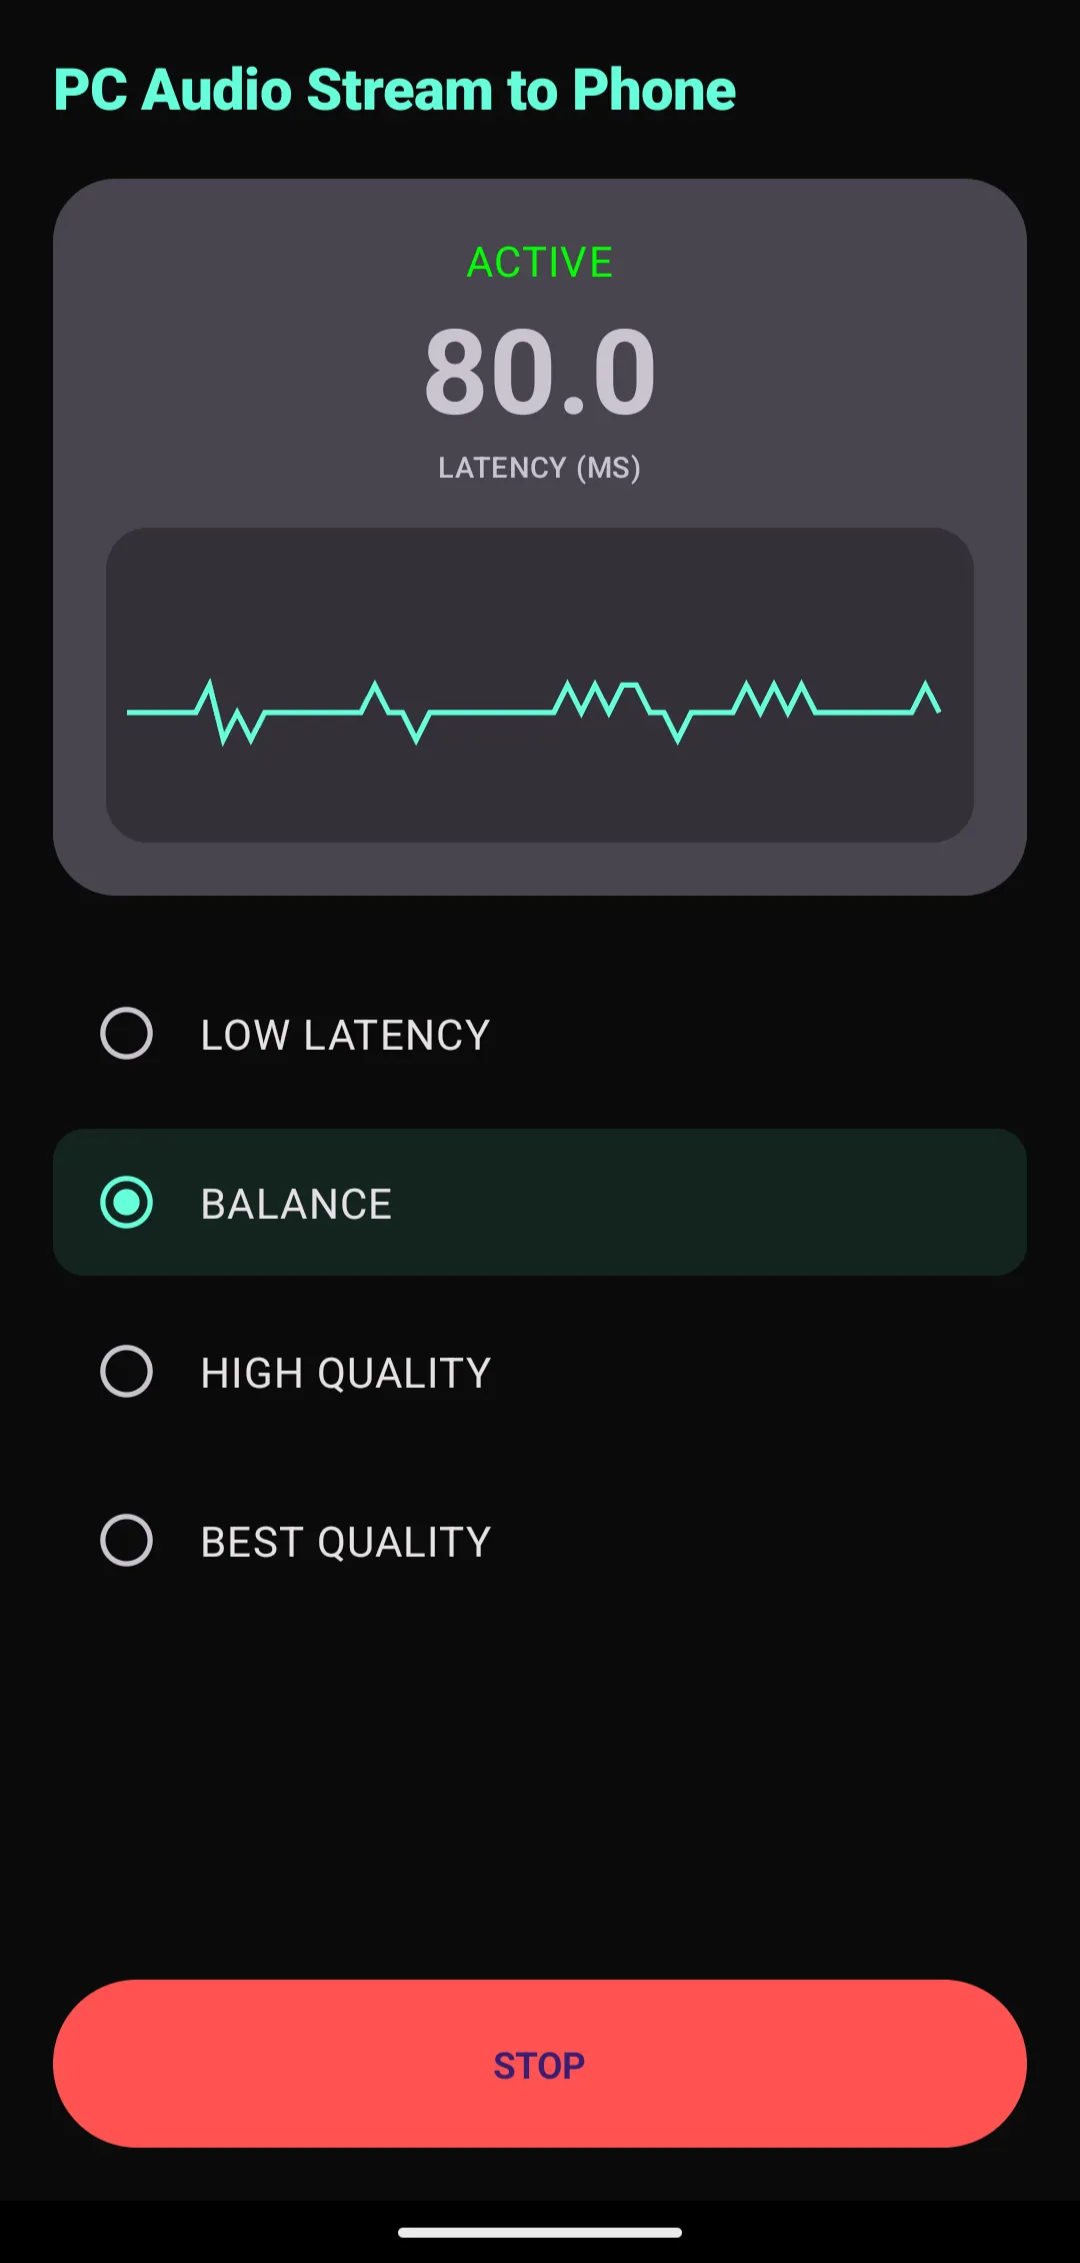
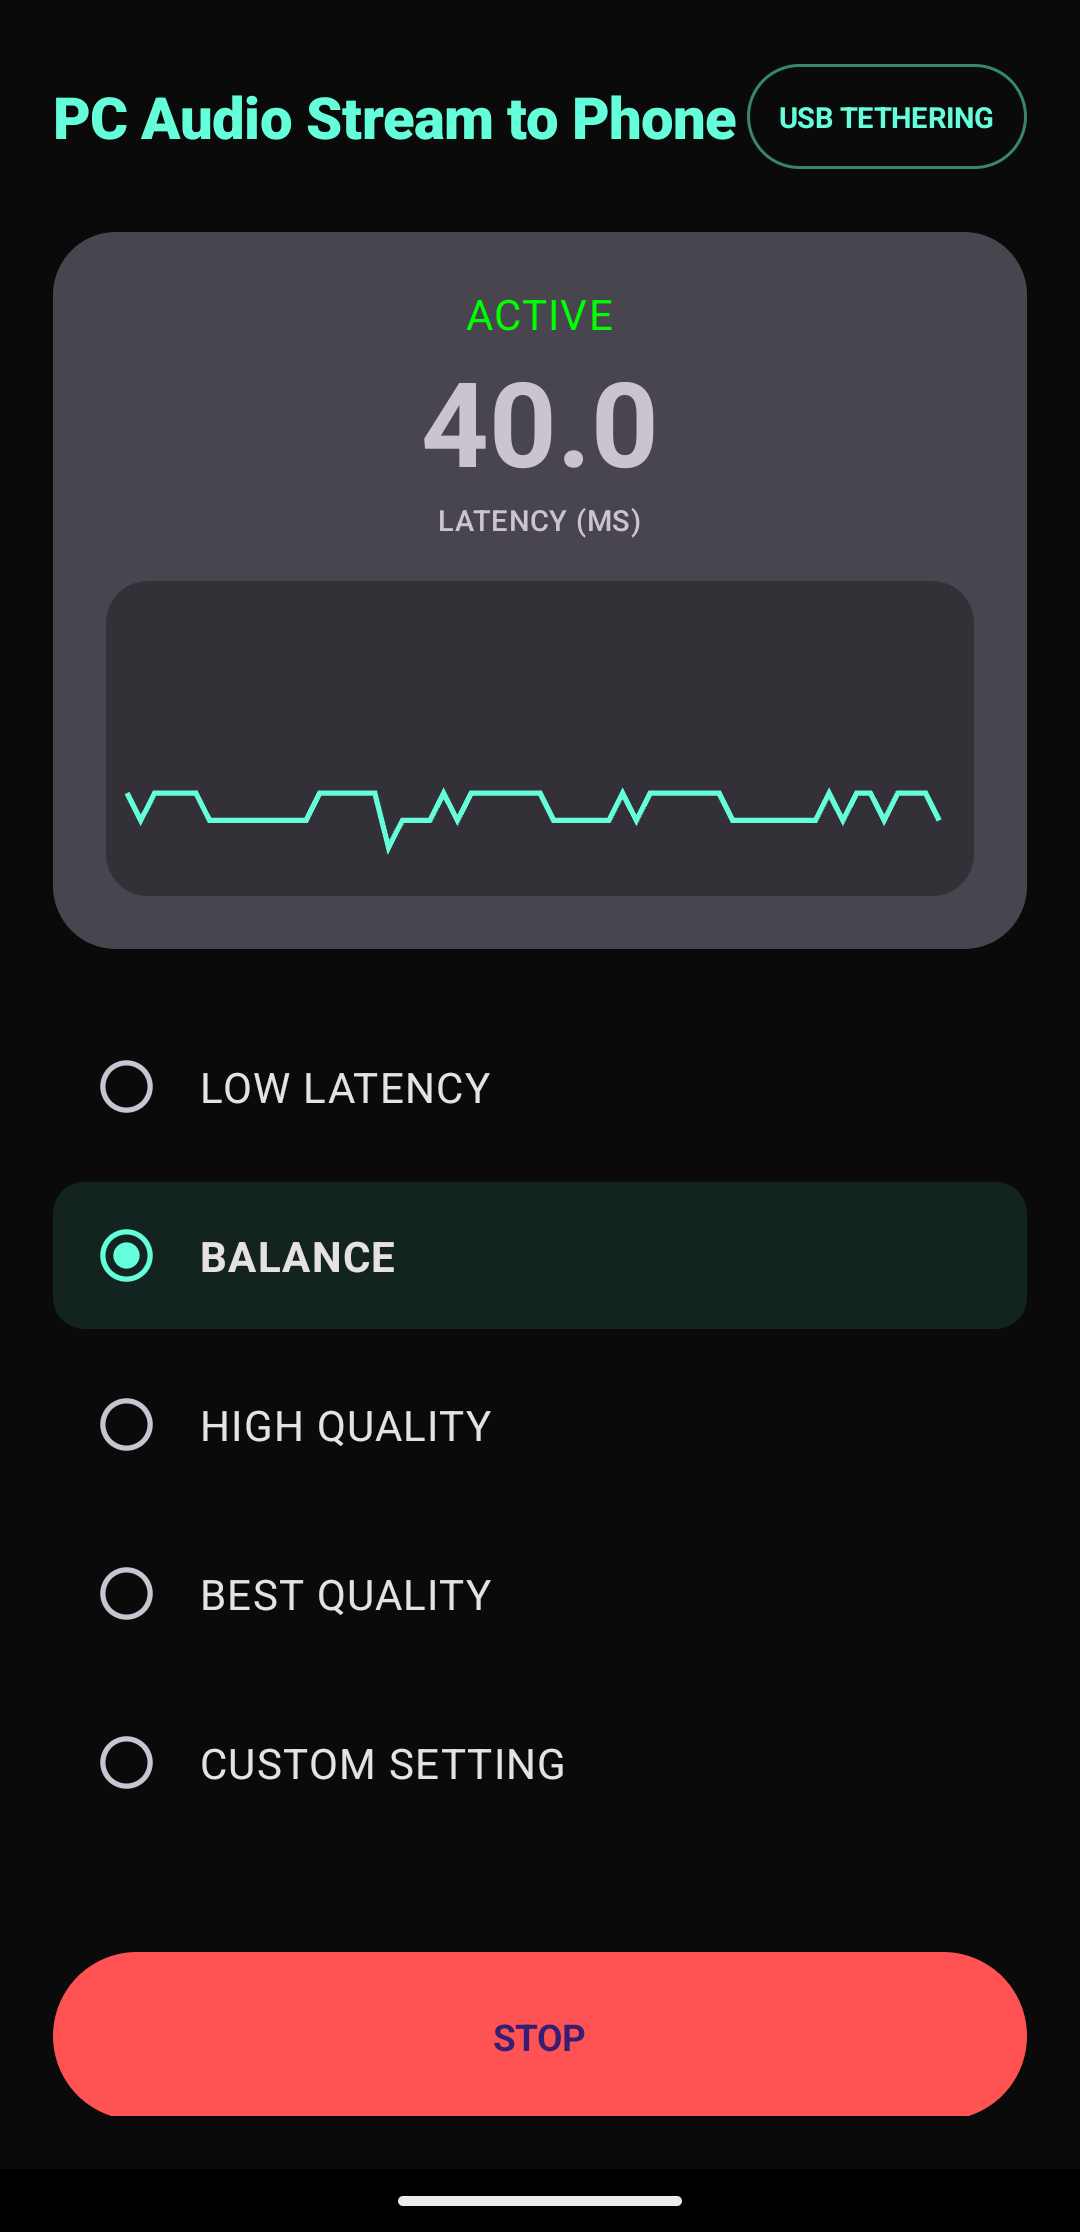
docs: document the USB tethering shortcut and refresh the client screenshot
The client screenshot predated the CUSTOM SETTING preset (v1.2.0) and, after
this change, no longer matched the UI either. Replaced with a current capture
that shows the header shortcut.

Also point the USB tethering walkthrough at the new button instead of telling
the user to dig through Settings, and mention the shortcut in the feature list.

diff --git a/README.md b/README.md
@@ -41,7 +41,7 @@ There are several audio streaming solutions available on the market (e.g., Audio
 *   **Zero Bloat**: No ads, no tracking, no complex setup. Just connect and listen.
 *   **Modern Visual Interface**: 
     *   **Windows**: Centralized, lightweight interface with "Run at Startup" support.
-    *   **Android**: Material Design 3 Dark Theme with a **Dynamic Latency Chart**, **MediaStyle Notification**, and **Collapsible Advanced Tuning**.
+    *   **Android**: Material Design 3 Dark Theme with a **Dynamic Latency Chart**, **MediaStyle Notification**, **Collapsible Advanced Tuning**, and a one-tap **USB TETHERING** shortcut in the header that opens the system tethering screen.
 *   **Custom Setting Preset (v1.2.0)**:
     *   **Advanced Tuning UI**: Complete control over Bitrate, Buffer Size, Catch-up Threshold, and PCM Pre-decode Target.
     *   **Demand-based Decoding**: Tailor the CPU vs. Network stability balance by adjusting the PCM inventory target.
@@ -132,7 +132,7 @@ Choose between **LOW_LATENCY**, **BALANCE**, **HIGH_QUALITY**, and **BEST_QUALIT
 If Wi-Fi is congested, unavailable, or you just want a dedicated cable link, you can run AS2P over the USB network created by Android's USB tethering:
 
 1.  Connect the phone to the PC with a USB cable.
-2.  On the phone, enable **USB tethering** (Settings → Network & internet → Hotspot & tethering → USB tethering).
+2.  On the phone, tap the **USB TETHERING** button at the top of the app — it opens the system tethering screen — and enable **USB tethering** there.
 3.  Windows will bring up a new network adapter and take an IP address from the phone automatically.
 4.  Open the Android app and tap **CONNECT**. The client broadcasts discovery on all interfaces, so it will find the server over the USB link even though the default route (Wi-Fi / mobile data) points elsewhere.
 5.  Make sure UDP port **12345** is allowed through Windows Firewall (see [Firewall Configuration](#2-firewall-configuration)).
